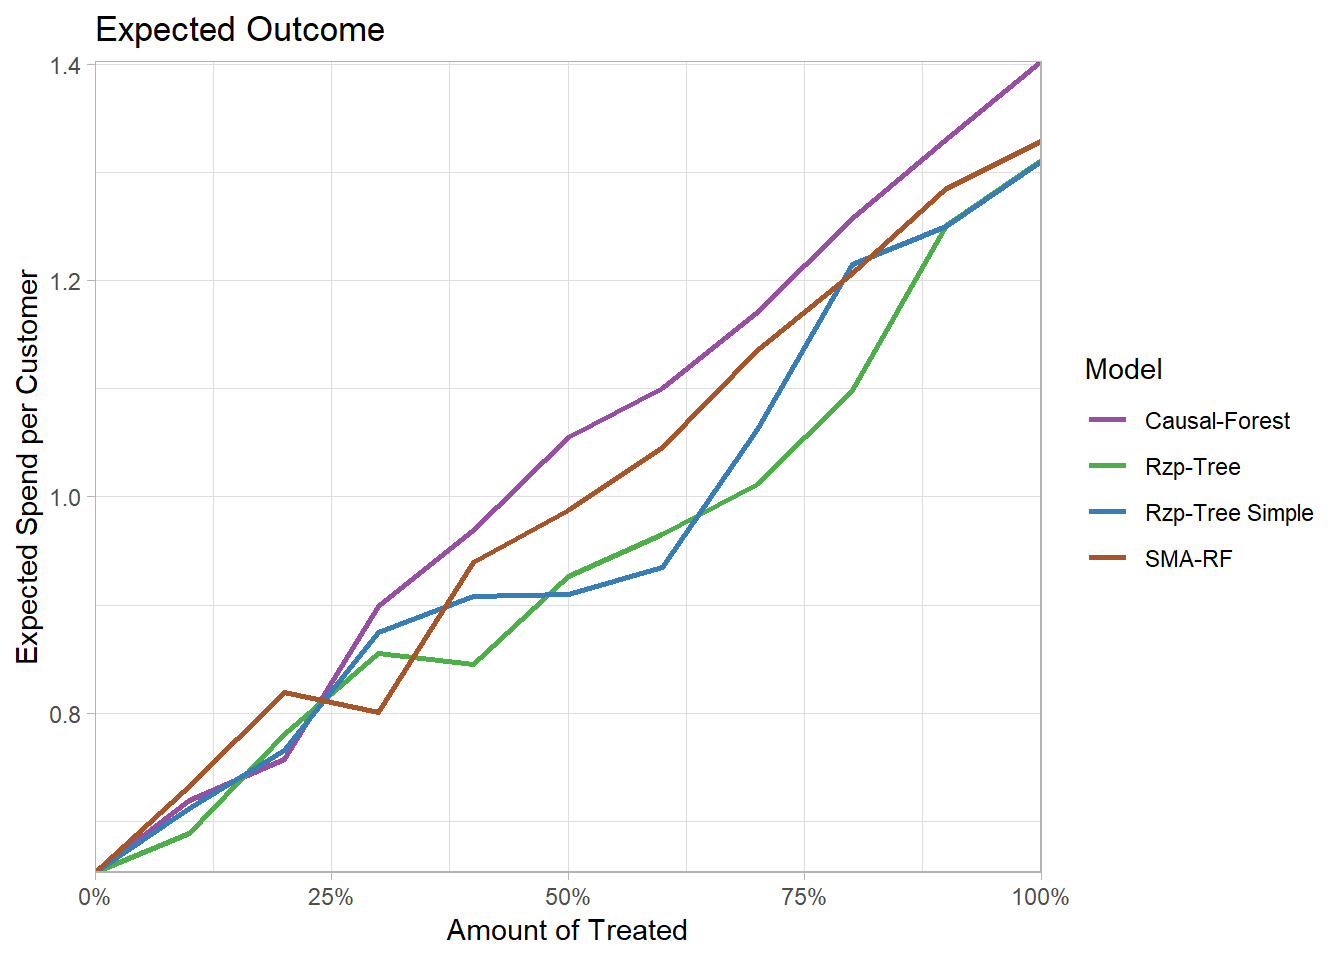
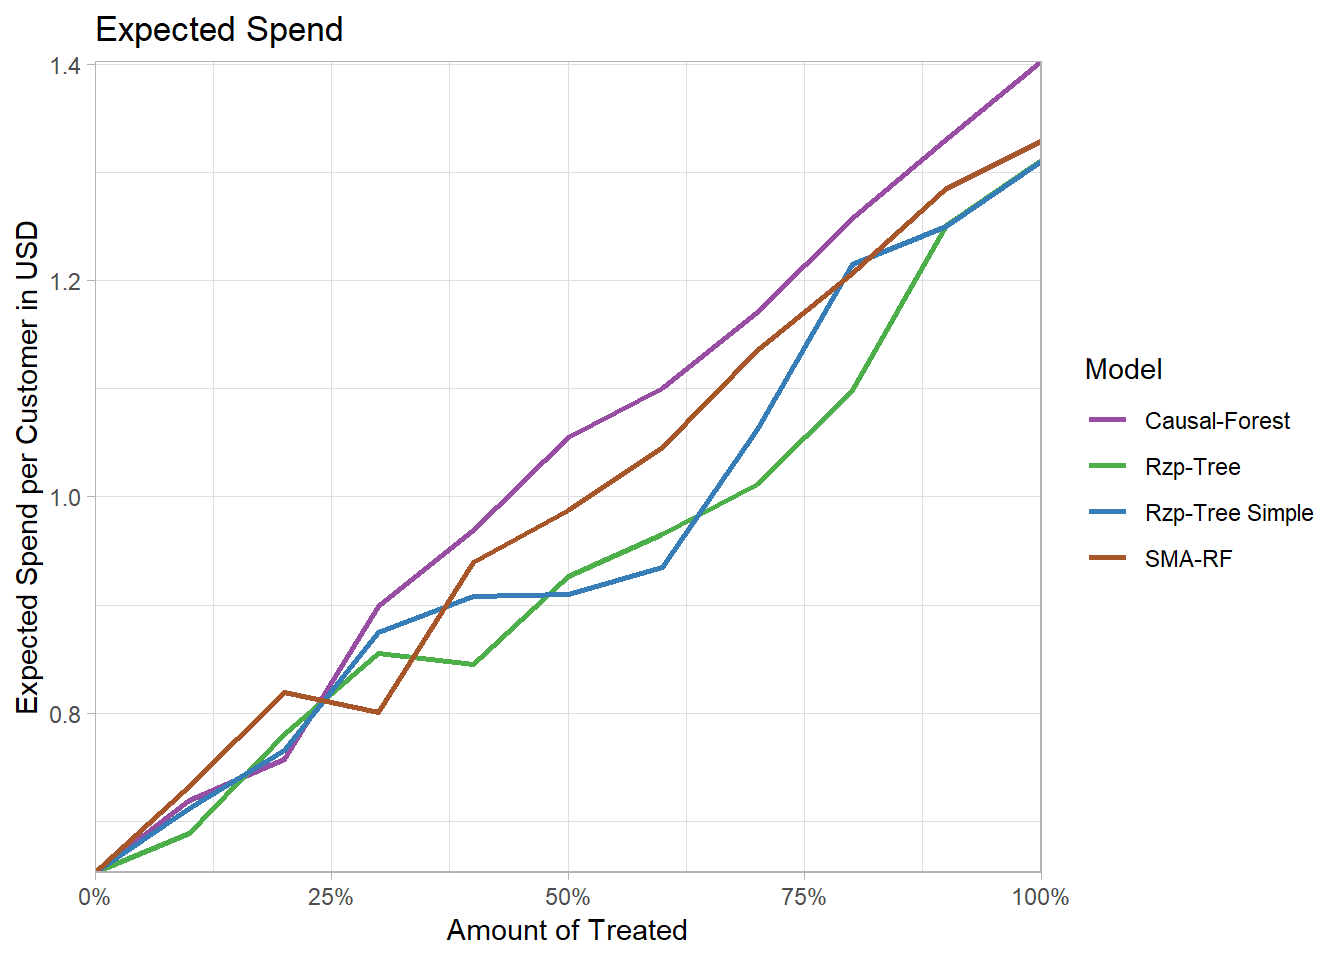
Final Results and Description of Implementation

Changed region(s): [[0.0, 0.2188, 0.0312, 0.75], [0.1875, 0.0, 0.2812, 0.0625]]

diff --git a/content/research/applied_predictive_modeling_19/Multiple_Treatments_Uplift.md b/content/research/applied_predictive_modeling_19/Multiple_Treatments_Uplift.md
@@ -29,7 +29,6 @@ description = "Evaluation and discussion of Uplift Models for multiple possible 
 4.1 [Uplift Curves](#uplift_curves)</br>
 4.2 [Expected Outcome](#expected_outcome)</br>
 5. [Experimental Setup](#experiment) <br />
-5.1 [Data Sets](#datasets)</br>
 6. [Results](#evaluationresults)
 7. [Outlook](#outlook)
 8. [References](#references)
@@ -313,15 +312,22 @@ Therefore, we see the uplift curves more applicable for multiple treatments and 
 
 Another evaluation method for uplift models with multiple treatments is the expected outcome metric propose by Zhao et al. (2017).
 It estimates the expected outcome, given that each subject is assigned the treatment with the highest outcome, predicted by the uplift model (including choosing no treatment).
+
+
+
+<!--
 The authors define a random variable $Z$ as follows:
 
 \begin{equation}
 Z = \sum_{t=0}^{K} \frac{1}{p_t} Y I \{ h(X)=t \} I { T=t }
 \end{equation}
 
+-->
+
+
 In case the treatment predicted by the uplift model is equal to the actual assigned treatment to the subject during the experiment, the weighted outcome of this subject is summed.
 In other words, the subjects where the predicted and assigned treatments match, form the group of representatives for those with this treatment assigned.
-As the number of matched subjects can vary, their group outcomes are weighted.
+As the number of matched subjects can vary, their group outcomes are then weighted.
 <br />
 The expected value of $Z$ is than equal to the expected outcome, given that each subject is assigned the best predicted treatment, as shown by the authors.
 Furthermore, the sample average $\bar{z}$ represents an unbiased estimate of $E[Z]$
@@ -330,13 +336,16 @@ Furthermore, the sample average $\bar{z}$ represents an unbiased estimate of $E[
 E[Z] = E[Y|T=h(X)]
 \end{equation}
 
+
+
 \begin{equation}
 \bar{z}=\frac{1}{N} \sum_{i=1}^{N}z^{(i)} 
 \end{equation}
 
+
 The expected response can also be used to draw uplift curves. In Zhao et al. (2017) those curves are named modified uplift curves.
-Once again the subjects are ranked by their score (expected uplift). Now for the top x-percent the optimal treatment is assigned and the remaining subject are assigned to the control group.
-Now the expected value for treating x-percent of the subjects are given as $\bar{z}$.
+Once again the subjects are ranked by their score (expected uplift). Now for the top t-percent the optimal treatment is assigned and the remaining subject are assigned to the control group.
+Now the expected value for treating t-percent of the subjects are given as $\bar{z}$.
 <br />
 In contrast to the qini and uplift curves, the modified uplift curve is not cumulative, as the outcomes of the not treated subjects are also taken into account. 
 Also the expected outcome is defined per customer and therefore independent from the size of the testing data. 
@@ -344,19 +353,18 @@ This can make it easier to draw decision in a business setting, as the expected 
 
 
 # 5. Experimental Setup <a class="anchor" id="outlook"></a>
-## 5.1 Data Set <a class="anchor" id="datasets"></a>
-
-<!--
-Describe Dataset with different outcome variables
--->
+## Data Set
 
 We use the E-Mail campaign dataset from <a href="https://blog.minethatdata.com/2008/03/minethatdata-e-mail-analytics-and-data.html" target="_blank">Kevin Hillstrom’s MineThatData</a> for our evaluation.
 This dataset represents a randomized E-Mail marketing campaign of an online vendor with two treatments (Mens E-Mail, Womens E-Mail) and a control group.
 The dataset consists of 64,000 observations, 3 target variables and 8 feature variables.
 The measured outcome variables are whether the customer visited the website or if he actually converted, which are both binary.
 Furthermore, also the actual spend of the customers is measure, which represents a continuous outcome.
-As shown in Table 1 the total response rates for all outcome variables are quite low.
-When looking at the two E-Mail campaigns in Table 2 both treatments have a total positive effect on all target variables.
+As shown in <b>Table 1</b> the total response rates for all outcome variables are quite low.
+When looking at the two E-Mail campaigns in <b>Table 2</b> both treatments have a total positive effect on all target variables.
+<br />
+As the dataset is already preprocessed we did not had to do any manipulations to the data.
+
 
 <table border="1" class="dataframe" style="width:300px">
 <CAPTION><b>Table 1</b>: Average response of all customers in the E-Mail dataset.</CAPTION>
@@ -410,14 +418,19 @@ When looking at the two E-Mail campaigns in Table 2 both treatments have a total
 
 
 
-## 5.2 Implementation <a class="anchor" id="implementation"></a>
+## Implementation
 
-Using the E-Mail campaign dataset, we have evaluated our implementations the models.
-
-For the causal forest we use the implementation from **.
-For the SMA we have evaluated several possible base learners and now use a tuned random forest as it performed best in our experiments.
-The tree from Rzepakowski () and 
-
+Using the E-Mail campaign dataset, we have evaluated our implementations of the described models.
+We have implemented the trees from Rzepakowski et al. (2012) with multiple possible divergence measures and the described splitting criterions in R.
+We have also tried to build a forest model with those trees as the subtrees, but unfortunately due to time constraints we were only able to use 20 subtrees per forest, which did not result in a significant improvement. 
+Therefore, we did not include them into our evaluation.
+For the causal forest we use the <a href="https://github.com/susanathey/causalTree" target="_blank">available implementation</a> from Athey et al. (2016).
+We build the causal forest using 200 subtrees and a mtry parameter of 2.
+For the SMA we have evaluated several possible base learners and chose a tuned random forest as it performed best in our experiments.
+<br /> 
+We have fitted and evaluated all models using 5 fold cross validation and set a seed beforehand, in order to avoid inconsistencies in the outcomes due to different evaluation data splits.
+<br />
+The full implementation of our models and evaluation metrics is <a href="https://github.com/Matthias2193/APA" target="_blank">shared on GitHub</a>.
 
 
 # 6. Results <a class="anchor" id="evaluationresults"></a>
@@ -490,6 +503,7 @@ A standardized  evaluation procedure in the uplift field could increase the comp
 
 # 8. References <a class="anchor" id="references"></a>
 
+* Athey, S. and Imbens, G., 2016. Recursive partitioning for heterogeneous causal effects. Proceedings of the National Academy of Sciences, 113(27), pp.7353-7360.
 * Devriendt, F., Moldovan, D. and Verbeke, W., 2018. A literature survey and experimental evaluation of the state-of-the-art in uplift modeling: A stepping stone toward the development of prescriptive analytics. Big data, 6(1), pp.13-41.
 * Gubela, R., Bequé, A., Lessmann, S. and Gebert, F., 2019. Conversion uplift in e-commerce: A systematic benchmark of modeling strategies. International Journal of Information Technology & Decision Making (IJITDM), 18(03), pp.747-791.
 * Gutierrez, P. and Gérardy, J.Y., 2017, July. Causal inference and uplift modelling: A review of the literature. In International Conference on Predictive Applications and APIs (pp. 1-13).
